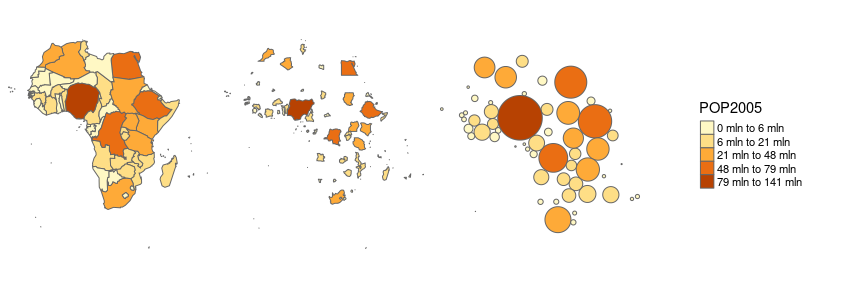
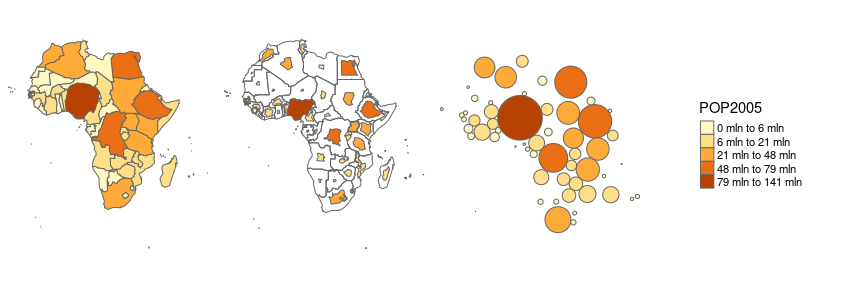
borders for sf nc cartogram

Changed region(s): [[0.2812, 0.125, 0.4688, 0.75]]

diff --git a/README.md b/README.md
@@ -127,7 +127,8 @@ afr_sf_noc <- noc_cartogram(afr_sf, "POP2005")
 m1 = tm_shape(afr_sf_carto) + tm_polygons("POP2005", style = "jenks", legend.show=FALSE) +
   tm_layout(frame = FALSE)
 
-m2 = tm_shape(afr_sf_nc) + tm_polygons("POP2005", style = "jenks", legend.show=FALSE) +
+m2 = tm_shape(afr_sf) + tm_borders() + 
+  tm_shape(afr_sf_nc) + tm_polygons("POP2005", style = "jenks", legend.show=FALSE) +
   tm_layout(frame = FALSE)
 
 m3 = tm_shape(afr_sf_noc) + tm_polygons("POP2005", style = "jenks", legend.show=FALSE) +
